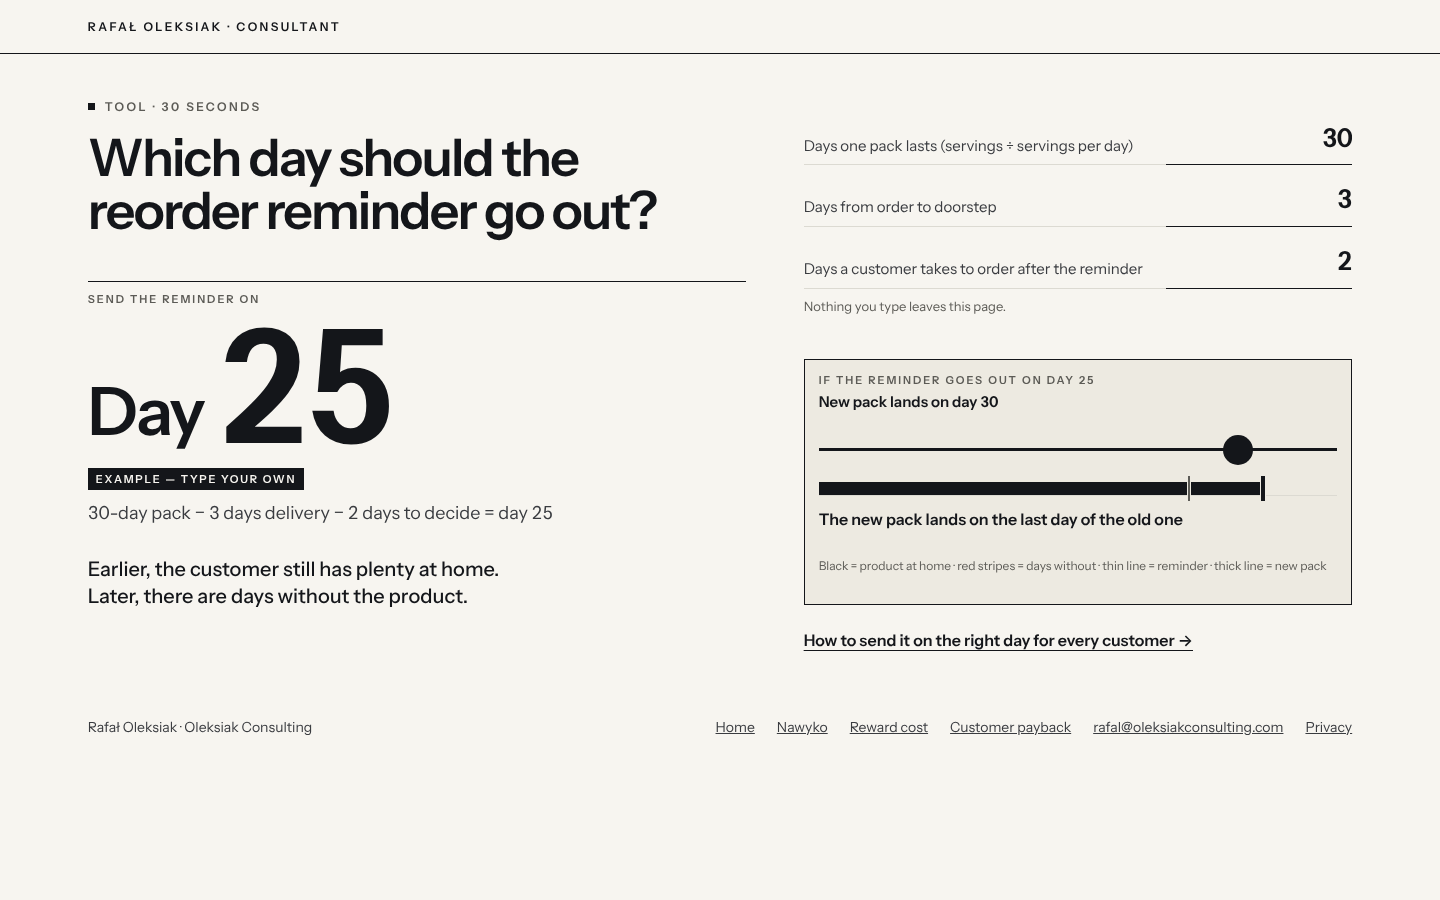
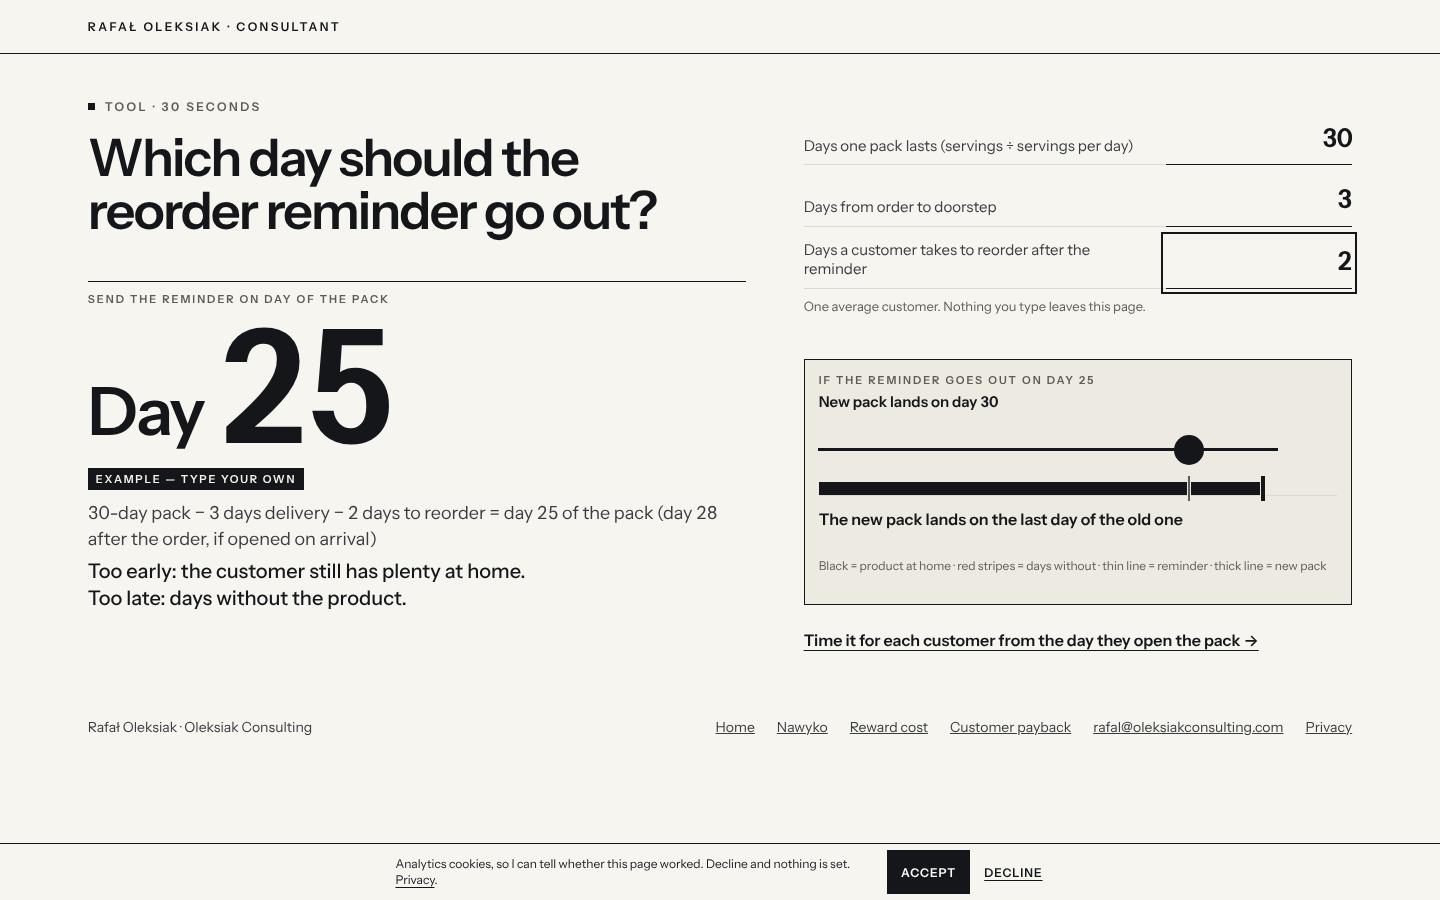
feat(lab,nawyko): /lab/reminder po recenzji (dzien zero, skala suwaka, teksty czytelnika), zdrapka w wersji bez ruchu na /nawyko, regula R7 i zasada 8 rubryki (NN/g)

diff --git a/app/lab/reminder/ReminderClient.tsx b/app/lab/reminder/ReminderClient.tsx
@@ -34,7 +34,7 @@ export function Reminder() {
 
   const cp = check(p, 'Days one pack lasts', 365)
   const cd = check(d, 'Days to the doorstep', 90)
-  const ck = check(k, 'Days to order', 90)
+  const ck = check(k, 'Days to reorder', 90)
   const input = { pack: cp.v ?? NaN, delivery: cd.v ?? NaN, decide: ck.v ?? NaN }
   const res = reminderDay(input)
   const hint = cp.hint || cd.hint || ck.hint
@@ -59,7 +59,11 @@ export function Reminder() {
     return () => window.clearTimeout(id)
   }, [say])
 
-  const field = (set: (s: string) => void) => (e: React.ChangeEvent<HTMLInputElement>) => set(e.target.value)
+  // Nowe liczby = nowa odpowiedz: suwak wraca do wyliczonego dnia (inaczej opis dla czytnikow i os pokazuja stary dzien).
+  const field = (set: (s: string) => void) => (e: React.ChangeEvent<HTMLInputElement>) => {
+    set(e.target.value)
+    setSend(null)
+  }
 
   return (
     <section className="rw rm" aria-labelledby="rm-h1">
@@ -70,7 +74,7 @@ export function Reminder() {
         </h1>
 
         <div className="rw-out">
-          <div className="nk-caps rw-k">Send the reminder on</div>
+          <div className="nk-caps rw-k">Send the reminder on day of the pack</div>
           <div className={res.ok ? 'rw-num' : 'rw-num is-off'}>
             {res.ok ? (
               <>
@@ -87,7 +91,10 @@ export function Reminder() {
           <p className="rw-why">
             {res.ok ? (
               <>
-                {cp.v}-day pack − {days(cd.v!)} delivery − {days(ck.v!)} to decide = day {res.tooLate ? `${cp.v! - cd.v! - ck.v!} → day 1` : res.day}
+                {cp.v}-day pack − {days(cd.v!)} delivery − {days(ck.v!)} to reorder ={' '}
+                {res.tooLate
+                  ? 'no day left in the pack'
+                  : `day ${res.day} of the pack (day ${res.day + cd.v!} after the order, if opened on arrival)`}
               </>
             ) : (
               hint ?? 'Fill in the three fields to see it.'
@@ -95,8 +102,8 @@ export function Reminder() {
           </p>
           <p className="rw-do">
             {res.ok && res.tooLate
-              ? 'Send it with the order: the next pack must ship on day 1.'
-              : 'Earlier, the customer still has plenty at home. Later, there are days without the product.'}
+              ? 'Too late for a reminder: delivery and reorder take longer than one pack. Offer a subscription or a two-pack at checkout.'
+              : 'Too early: the customer still has plenty at home. Too late: days without the product.'}
           </p>
           <p className="rw-live" aria-live="polite">
             {said}
@@ -115,12 +122,12 @@ export function Reminder() {
             <input id="rm-d" type="text" inputMode="numeric" autoComplete="off" value={d} onChange={field(setD)} aria-invalid={cd.hint ? true : undefined} aria-describedby="rm-hint" />
           </label>
           <label className="rw-f" htmlFor="rm-k">
-            <span>Days a customer takes to order after the reminder</span>
+            <span>Days a customer takes to reorder after the reminder</span>
             <input id="rm-k" type="text" inputMode="numeric" autoComplete="off" value={k} onChange={field(setK)} aria-invalid={ck.hint ? true : undefined} aria-describedby="rm-hint" />
           </label>
         </div>
         <p className="rw-hint" id="rm-hint">
-          {hint ? <strong>{hint}</strong> : 'Nothing you type leaves this page.'}
+          {hint ? <strong>{hint}</strong> : 'One average customer. Nothing you type leaves this page.'}
         </p>
 
         <div className="rw-try">
@@ -137,6 +144,8 @@ export function Reminder() {
             step={1}
             value={n}
             disabled={!res.ok}
+            // Suwak na tej samej skali co os ponizej: srodek uchwytu (30 px) nad dniem 1 i nad ostatnim dniem opakowania.
+            style={res.ok ? { marginLeft: `calc(${pct(1)} - 15px)`, width: `calc(${pct(input.pack - 1)} + 30px)` } : undefined}
             onChange={(e) => setSend(Number(e.target.value))}
             aria-valuetext={res.ok ? `Day ${n}: ${result}` : 'Fill in the three fields first'}
           />
@@ -157,7 +166,7 @@ export function Reminder() {
         </div>
 
         <p className="rw-act">
-          <a href="/nawyko">How to send it on the right day for every customer →</a>
+          <a href="/nawyko">Time it for each customer from the day they open the pack →</a>
         </p>
       </div>
     </section>

diff --git a/app/nawyko/NawykoClient.tsx b/app/nawyko/NawykoClient.tsx
@@ -728,6 +728,9 @@ function Scene({
     const mq = window.matchMedia('(prefers-reduced-motion: reduce)')
     // Niskie okno (telefon poziomo, okno 1440x600): scena nie zmiesci telefonu i tekstu
     // w jednym ekranie, wiec zostaje w ukladzie statycznym.
+    // Reduced motion: uklad statyczny startuje na akcie zdrapki (karta do zdrapania palcem albo przyciskiem
+    // „Scratch today's card”), bez samozdrapki — zamiast od razu na nagrodzie. Bramka qa.js (webdriver) bez zmian.
+    if (mq.matches && !navigator.webdriver) setManual(1)
     if (mq.matches || navigator.webdriver || window.innerHeight < 600) return
     setMode('scroll')
     let raf = 0
@@ -769,7 +772,8 @@ function Scene({
   let found = 0
   for (let i = 0; i < ACTS; i++) if (x >= ACT_AT[i]) found = i
   const step = scroll ? found : manual
-  const t = scroll ? clamp((x - ACT_AT[found]) / ACT_W[found]) : 1
+  // Uklad statyczny na akcie zdrapki: t=0, zeby karta czekala na odwiedzajacego (Phone odkrywa ja przy t>0,94).
+  const t = scroll ? clamp((x - ACT_AT[found]) / ACT_W[found]) : step === 1 ? 0 : 1
   const ch = CH_OF[step] ?? 0
   /* Przejazd telefonu miedzy rozdzialami sterowany przewijaniem (regula R2), nie zegarem: wjazd w rozdzial „For you”
      przez pierwsze 0,3 aktu, powrot przez pierwsze 0,3 aktu „Under your brand”. Tekst aktu wchodzi dopiero po przejezdzie. */

diff --git a/app/lab/reminder/reminder.css b/app/lab/reminder/reminder.css
@@ -24,6 +24,7 @@
 
 /* stale miejsce na zmienne linie — bez skokow ukladu przy wpisywaniu (R6) */
 .nk .rm .rw-why{min-height:2.8em;}
+@media (max-width:700px){.nk .rm .rw-why{min-height:4.2em;}}
 .nk .rm .rw-do{min-height:4.05em;}
 .nk .rm .rw-hint{min-height:38px;}
 .rm .rw-tl{display:block;min-height:56px;}

diff --git a/agencja/recenzje/18-narzedzie-dzien-przypomnienia.md b/agencja/recenzje/18-narzedzie-dzien-przypomnienia.md
@@ -1,0 +1,35 @@
+# Recenzja 18: narzędzie „dzień przypomnienia” (/lab/reminder) + /nawyko przy ograniczonym ruchu
+
+Recenzent niezależny, 2026-11-23. Lokalna wersja produkcyjna, Chromium, 390×844 i 1440×900, DPR 1.
+
+| # | Kryterium | Wynik | Dowód |
+|---|---|---|---|
+| 1 | W 10 s wiem, co to, co daje, co kliknąć | PASS | Pytanie w tytule, odpowiedź „Day 25”, etykieta „EXAMPLE — TYPE YOUR OWN”, trzy pola od razu pod spodem (mobile: pola widoczne bez przewijania). |
+| 2 | Odpowiedź poprawna | PASS | 30/3/2 → dzień 25, linia „30 − 3 − 2 = day 25”; 60/5/3 → 52; suwak 26 → „1 day without the product”, 20 → komunikat 5 dni zapasu (zgodny ze specyfikacją). |
+| 3 | Kciuk suwaka = cienka linia | PASS | Różnica ≤ 2 px (dz. 25: 263 vs 262; 26: 273 vs 271; 20: 218 vs 217; 60-dniowe: 279 vs 278). |
+| 4 | Brak nakładania, ucięć, przewijania w bok | PASS | scrollWidth = szerokość okna w obu rozmiarach; zrzuty czyste. |
+| 5 | Klawiatura + widoczny fokus | PASS | Kolejność Tab: skip → logo → 3 pola → suwak → link; fokus suwaka 2 px solid, strzałki działają; baner cookie na /lab/reminder niewidoczny. |
+| 6 | Brak marek, faktów, zdrowia, „ja/mój” | PASS (z uwagą) | Narzędzie czyste; ale baner cookie (widoczny na /nawyko) mówi „so I can tell”. |
+| 7 | Zero kiczu, papier/czerń/jedna czerwień | PASS | Czerwień tylko przy dniach bez produktu. |
+| 8 | /nawyko, reduced motion: karta zakryta i odkrywalna | PASS | Karta „SCRATCH HERE” zakryta; przeciągnięcie wskaźnikiem → „Day 9 DONE”, seria 8→9; przycisk „Scratch today's card” również odkrywa kartę. |
+
+## Poprawki (od najważniejszej)
+1. Baner cookie: zamienić „so I can tell…” na formę bezosobową (reguła „bez ja/mój”).
+2. Ukryty opis osi czasu dla czytników ekranu jest nieaktualny: po wpisaniu 60 nadal „Day 25. Reminder on day 25…”, po zmianie suwaka pokazał „Day 1”; powinien przeliczać się razem z wykresem (do sprawdzenia w kodzie).
+3. Przypadek dostawa + decyzja ≥ opakowanie: linia „= day -2 → day 1” pokazuje ujemny dzień; lepiej „za mało dni: przypomnienie razem z zamówieniem”.
+4. Mobile: ścieżka suwaka kończy się ok. 30 px przed końcem osi czasu; wyrównać szerokości, żeby oś nie wyglądała na dłuższą niż zakres.
+5. Wprost jedno zdanie, co marka zyskuje (np. mniej dni bez produktu = mniej utraconych ponownych zamówień), bez liczb.
+
+## Czytelnik-kupujący (szef e-commerce marki suplementów, sama lista tekstów) i co zmieniono
+- „Day 25” — od czego liczyć? → „day 25 of the pack (day 28 after the order, if opened on arrival)”, etykieta „Send the reminder on day of the pack”.
+- „to decide” vs „to order after the reminder” — dwie nazwy jednej rzeczy → wszędzie „to reorder”.
+- „Send it with the order: the next pack must ship on day 1.” czytany jako błąd → „Too late for a reminder: delivery and reorder take longer than one pack. Offer a subscription or a two-pack at checkout.”
+- „Nie ufam jednej liczbie dla wszystkich” → „One average customer.” przy polach.
+- CTA: „How to send it on the right day for every customer →” → „Time it for each customer from the day they open the pack →” (bez obietnicy wyniku).
+- Nie przyjęte: „run out” zamiast „days without the product” — „without the product” jest spójne z `/nawyko` i mini-kalkulatorem.
+
+## Poprawki z recenzji wyglądu
+- Pkt 2 (opis dla czytników po wpisaniu nowej liczby pokazywał stary dzień): nowe liczby przestawiają suwak na wynik — sprawdzone: po wpisaniu 60 „Day 55. Reminder on day 55…”.
+- Pkt 3 (ujemny dzień „= day -2 → day 1”): → „no day left in the pack”.
+- Pkt 4 (suwak krótszy od osi na telefonie): zamierzone — oś pokazuje też dni po końcu opakowania; uchwyt stoi nad dniem (≤ 2 px).
+- Pkt 1 (baner cookies „so I can tell”): pierwsza osoba w zgodach jest dozwolona (rubryka, zasada 1) — bez zmian.

diff --git a/agencja/postep-uczenia.md b/agencja/postep-uczenia.md
@@ -9,3 +9,5 @@ Jedna linia na przebieg: data · czego się nauczyliśmy (źródło) · co konkr
 - 23.11 15:00 (runda 3, przebieg 4) · W3C WCAG 2.2 „Understanding SC 2.4.11 Focus Not Obscured (Minimum)” (https://www.w3.org/WAI/WCAG22/Understanding/focus-not-obscured-minimum.html), porażka F110 (przyklejona stopka zasłania fokus) i technika C43 „Using CSS scroll-padding to un-obscure content” (https://www.w3.org/WAI/WCAG22/Techniques/css/C43.html) · Zmiana: `scroll-padding-bottom: calc(var(--consent-h) + 24px)` na wszystkich trasach pisanych ręcznie (`/nawyko`, `/calculator`, `/lab/*`) + nowy automat `scripts/focus-obscured.test.mjs` (Tab przez stronę na 390 i 1440, żaden fokus pod paskiem cookies) · Sprawdzone: przed zmianą test złapał 2 ukryte fokusy na `/calculator` (390, „Talk these numbers through”) — błąd, którego nie widział `qa.js` ani żaden recenzent od 3 rund; po zmianie `focus-obscured: OK` na 4 trasach. Retro: recenzent znalazł ukryty fokus tylko w nowym bloku — zamiast łatać blok, zamieniliśmy znalezisko w test całej strony, i test od razu znalazł starszy błąd.
 - 23.11 16:05 (runda 3, przebieg 5) · NN/g „Website Forms Usability: Top 10 Recommendations” (K. Whitenton, 01.05.2016, https://www.nngroup.com/articles/web-form-design/): wymogi formatu w etykiecie, błąd konkretny, wpis zostaje · Zmiana: reguła w `agencja/narzedzia.md`, pole „Average days between a customer’s orders” w `/lab/payback`.
 - 23.11 16:05 · Retro: przebieg 4 raportował „CLS przy wpisywaniu 0,0000” — miara pomija przesunięcia do 0,5 s po wpisaniu (`hadRecentInput`), więc była ślepa dokładnie tam, gdzie mierzyliśmy. Nie zauważyliśmy, bo liczba wyglądała na dowód. Złapał to niezależny recenzent `/lab/payback`. Zmiana: reguła R6 (surowe przesunięcia przy edycji), `/lab/reward` poprawiony: 0,149 → 0,029 (390), 0,050 → 0,036 (1440) na 12 edycjach.
+- 23.11 17:10 (runda 3, przebieg 6) · NN/g „Headings Are Pick-Up Lines” (H. Loranger, 09.08.2015, https://www.nngroup.com/articles/headings-pickup-lines/): „Moving the keywords to the front makes the heading more scannable” · Zmiana: zasada 8 w `agencja/rubryka-tekstow.md`; porada w `/lab/reminder` z „Earlier, … Later, …” na „Too early: … Too late: …” · Sprawdzone: `copy-voice` OK, `qa.js` PASS.
+- 23.11 17:10 · Retro: budujący i recenzent wyglądu raportowali „wszystko PASS”, a dopiero czytelnik-kupujący zauważył, że „Day 25” nie mówi, od czego liczyć (od zamówienia czy od otwarcia) — bez tego wyniku nie da się wpisać do automatyzacji maili. Nie zauważyliśmy, bo spec definiował model, a nie punkt zero dla odbiorcy. Zmiana: reguła R7 (każda liczba-dzień mówi, od czego jest liczona); spec 10 i tekst wyniku poprawione.

diff --git a/agencja/specs/10-narzedzie-dzien-przypomnienia.md b/agencja/specs/10-narzedzie-dzien-przypomnienia.md
@@ -1,7 +1,7 @@
 # 10 — Narzędzie „Którego dnia wysłać przypomnienie o kolejnym opakowaniu” (`/lab/reminder`, podgląd)
 
-**Status:** w budowie (23.11.2026, runda 3 przebieg 6), noindex, poza `sitemap.ts`. Publikacja — decyzja Rafała (razem z Q).
-Nowa pozycja 7 w `agencja/narzedzia.md` (z „Następne” R3-7: „przypomnienie o kolejnym opakowaniu”).
+**Status:** zbudowane w podglądzie (23.11.2026, runda 3 przebieg 6), noindex, poza `sitemap.ts`. Publikacja — decyzja Rafała (razem z Q).
+Pozycja 7 w `agencja/narzedzia.md` (z „Następne” R3-7: „przypomnienie o kolejnym opakowaniu”).
 
 ## Pytanie
 „Which day should the reorder reminder go out?” — marka FMCG z powtarzalnym zakupem (suplement, kosmetyk, karma).
@@ -33,8 +33,13 @@ opakowania jest każdy klient (codzienne zdrapanie), więc przypomnienie może w
   Przykład 30/3/2: wysyłka dnia 25 → dostawa dnia 30 → 0 dni bez produktu (wynik); dnia 26 → 1 dzień bez; dnia 20 → 5 dni zapasu. Test na te przypadki + brzegi.
 
 ## Kryteria akceptacji
-- [ ] build, `tsc`, lint 0 błędów (ostrzeżeń nie więcej niż przed), `copy-voice`, `reminder-model` OK.
-- [ ] `qa.js /lab/reminder --scroll` PASS (9 szerokości); `focus-obscured` OK; `content-rules` bez zmian.
-- [ ] Surowe przesunięcia układu przy 12 edycjach ≤ 0,05.
-- [ ] Kontrast każdego tekstu ≥ 4,5:1 (liczby z narzędzia).
-- [ ] Recenzent niezależny + czytelnik-kupujący: `agencja/recenzje/18-narzedzie-dzien-przypomnienia.md`.
+- [x] build, `tsc`, lint 0 błędów (ostrzeżeń nie więcej niż przed), `copy-voice`, `reminder-model` OK.
+- [x] `qa.js /lab/reminder --scroll` PASS (9 szerokości); `focus-obscured` OK; `content-rules` bez zmian.
+- [x] Surowe przesunięcia układu przy 12 edycjach ≤ 0,05.
+- [x] Kontrast każdego tekstu ≥ 4,5:1 (liczby z narzędzia).
+- [x] Recenzent niezależny + czytelnik-kupujący: `agencja/recenzje/18-narzedzie-dzien-przypomnienia.md`.
+
+Wyniki: build/tsc OK, lint 0 błędów (1 ostrzeżenie jak przed), `copy-voice` i `reminder-model` OK, `qa.js` PASS (9 szerokości),
+`focus-obscured` OK; surowe przesunięcia przy 12 edycjach: 390 = 0,0058, 1440 = 0,0020 (budujący przed poprawką wysokości miał 0,97).
+Po recenzji: suwak na tej samej skali co oś (różnica ≤ 2 px), dzień zero zdefiniowany („day 25 of the pack (day 28 after the order…)”),
+jedna nazwa „to reorder”, ujemny dzień zastąpiony zdaniem, nowe liczby przestawiają suwak na wynik (czytnik ekranu już nie mówi starego dnia).

diff --git a/agencja/teksty-do-akceptacji.md b/agencja/teksty-do-akceptacji.md
@@ -82,3 +82,9 @@ w `agencja/rubryka-tekstow.md`. Recenzje czytelnika-kupującego: `agencja/recenz
 | /lab/payback | pola | Cost to win one customer (ads, offers, fees) · Gross margin per order (amount, not %) · Average days between a customer’s orders | nowy |
 | /lab/payback | suwak | A customer who stops after {2} orders · −{18} · not paid back / +{16} · paid back / Breaks even · legenda: Outline = ordered, not paid back · black = paid back · faint = never ordered | nowy |
 | /lab/payback | jedyny krok | How to get customers to order {3} → (/nawyko) | nowy |
+| /lab/reminder | nagłówek i odpowiedź | Which day should the reorder reminder go out? · Send the reminder on day of the pack · Day {25} · Example — type your own / Your numbers | nowy |
+| /lab/reminder | rachunek i porada | {30}-day pack − {3 days} delivery − {2 days} to reorder = day {25} of the pack (day {28} after the order, if opened on arrival) · Too early: the customer still has plenty at home. Too late: days without the product. | nowy |
+| /lab/reminder | za późno | … = no day left in the pack · Too late for a reminder: delivery and reorder take longer than one pack. Offer a subscription or a two-pack at checkout. | nowy |
+| /lab/reminder | pola | Days one pack lasts (servings ÷ servings per day) · Days from order to doorstep · Days a customer takes to reorder after the reminder · One average customer. Nothing you type leaves this page. | nowy |
+| /lab/reminder | suwak | If the reminder goes out on day {N} · New pack lands on day {X} · {X} days without the product / {X} days of product left when the new pack lands / The new pack lands on the last day of the old one · legenda: Black = product at home · red stripes = days without · thin line = reminder · thick line = new pack | nowy |
+| /lab/reminder | jedyny krok | Time it for each customer from the day they open the pack → (/nawyko) | nowy |

diff --git a/agencja/narzedzia.md b/agencja/narzedzia.md
@@ -10,6 +10,7 @@ Bohaterem jest marka odwiedzającego. Kolejność = proponowana kolejność budo
 | 3 | Does the pack run out before the customer reorders? | Ile dni zapasu daje opakowanie kontra odstęp między zamówieniami; czy klient „ma dziurę”. | `/tool` i `/nawyko` (przypomnienie w dniu, gdy kończy się opakowanie) | na produkcji: `/tool` |
 | 4 | How many customers reach a second order? | Ilu z jego nowych klientów musi wrócić, żeby pozyskanie się zwróciło (koszt pozyskania ÷ marża na zamówieniu = liczba zamówień do zwrotu). | `/nawyko` (nawyk po pierwszym opakowaniu) | **zbudowane w podglądzie `/lab/payback`** (spec 09); wynik to numer i dzień zamówienia |
 | 5 | What does a stamp card at day 24 of 30 cost you? | Koszt kartki z pieczątką na klienta przy jego cenie opakowania i dniu nagrody, w porównaniu z marżą z kolejnego opakowania. | `/nawyko` (mechanika dni i pieczątki) | pomysł |
+| 7 | Which day should the reorder reminder go out? | Dzień opakowania (i dzień od zamówienia), w którym wysłać przypomnienie: długość opakowania − dostawa − czas na zamówienie; suwak pokazuje dni bez produktu albo zapas przy innym dniu. | `/nawyko` — aplikacja zna dzień opakowania każdego klienta (codzienne zdrapanie) | **zbudowane w podglądzie `/lab/reminder`** (spec 10) |
 | 6 | Free shipping or a discount on the next pack — which costs less? | Który z dwóch znanych z góry bonusów jest tańszy przy jego koszcie wysyłki, cenie i marży. | `/nawyko` (nagrody do wyboru marki) | pomysł |
 
 Uwagi:

diff --git a/agencja/wiedza/kolejka.md b/agencja/wiedza/kolejka.md
@@ -6,7 +6,7 @@ Każda porcja: źródło (link + data) → jedna konkretna zmiana na stronie alb
 1. ~~Strony produktowe i scrollytelling — przewodnik Chrome „Scrollytelling”~~ (zrobione 23.11, runda 3)
 1b. ~~Narzędzia/kalkulatory — NN/g „Calculators and Quizzes: User Expectations” (2024)~~ (zrobione 23.11, runda 3 przebieg 3)
 2. ~~B2B lead generation i CRO — formularze: NN/g „Website Forms Usability: Top 10”~~ (zrobione 23.11 przebieg 5: reguła pól i błędów w narzędziach); zostaje: liczba pól formularza zapytania na `/nawyko` i `/calculator` (Baymard)
-3. Copywriting sprzedażowy — nagłówek = korzyść (NN/g „headlines”, „front-loading”)
+3. ~~Copywriting sprzedażowy — front-loading (NN/g „Headings Are Pick-Up Lines”, 2015)~~ (zrobione 23.11 przebieg 6: zasada 8 w rubryce tekstów); zostaje: przegląd nagłówków scen `/nawyko` pod zasadę 8
 4. Widoczność w odpowiedziach AI — jak strony produktowe są cytowane przez wyszukiwarki AI (schema `Product`/`SoftwareApplication`, FAQ)
 5. ~~Dostępność — WCAG 2.2: 2.4.11 Focus Not Obscured~~ (zrobione 23.11 przebieg 4: technika W3C C43 + test `focus-obscured`); zostaje 2.5.7 Dragging Movements (zdrapka i suwak mają alternatywę)
 6. Wydajność — INP dla scen sterowanych przewijaniem (long tasks w `scroll` + rAF)

diff --git a/agencja/rubryka-tekstow.md b/agencja/rubryka-tekstow.md
@@ -15,6 +15,10 @@ czytał tekstów oczami kupującego. Ta rubryka to naprawia. Niespełniony punkt
    unlock, supercharge, game-changing” i podobnych.
 5. **Jedna myśl.** Nagłówek do ok. 8 słów; scena do ok. 12 słów plus jedno zdanie.
 6. **Ton: rzeczowy doradca, nie sprzedawca i nie kumpel.** Bez wykrzykników, bez emoji, bez przechwałek o autorze.
+8. **Pierwsze dwa słowa niosą treść** (źródło: NN/g, H. Loranger, „Headings Are Pick-Up Lines”, 09.08.2015,
+   https://www.nngroup.com/articles/headings-pickup-lines/: „Moving the keywords to the front makes the heading more scannable”,
+   „Don't count on people reading the end of sentences”). Nagłówek, wynik i porada zaczynają się od słowa, które mówi, o co chodzi
+   („Too early: …”, „Day 25 of the pack”), nie od wstępu („Earlier, …”, „If you…”). Dwa przeciwne stany — dwie symetryczne etykiety.
 7. **Prawda.** Nic, czego produkt dziś nie robi; nic o zdrowiu poza zatwierdzonymi oświadczeniami; żadnych liczb bez źródła.
 
 ## Jak to sprawdzamy (trzy warstwy, wszystkie obowiązkowe)
